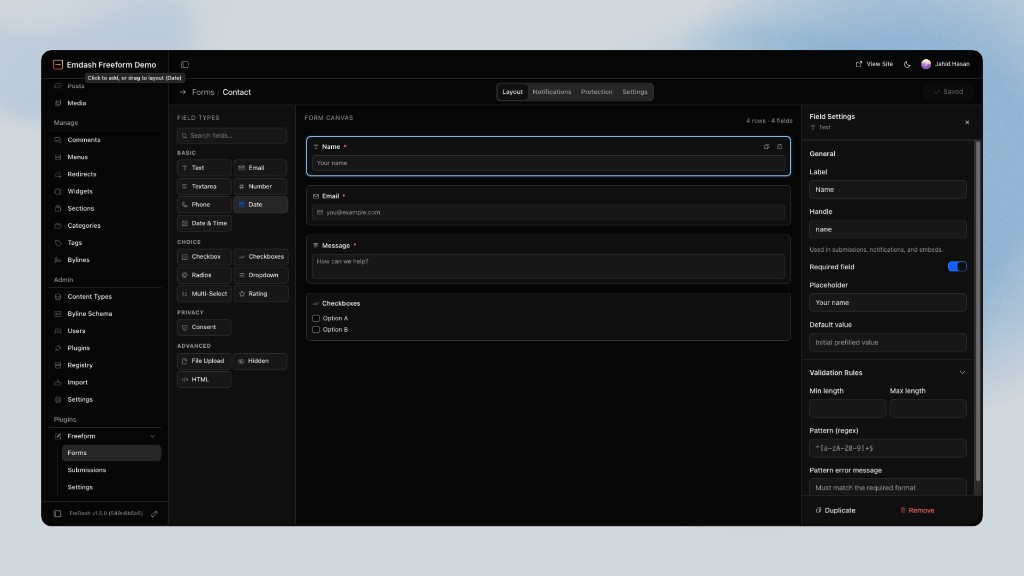
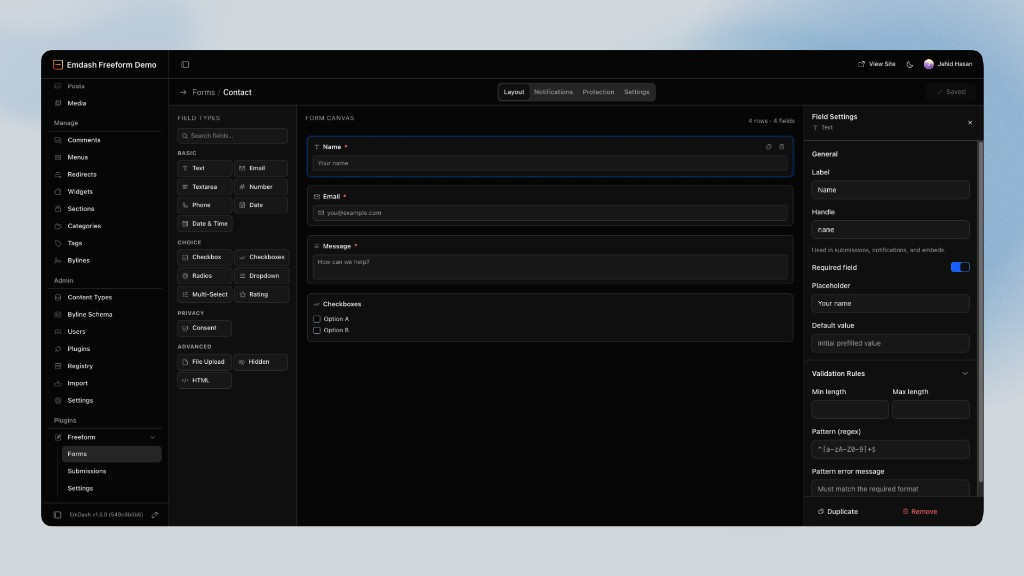
chore(release): freeform v1.4.5
Refresh the form-builder registry screenshot and align the plugin version string.

diff --git a/src/index.ts b/src/index.ts
@@ -8,7 +8,7 @@ export function freeformPlugin(): PluginDescriptor {
   return {
     id: "freeform",
     displayName: "Freeform",
-    version: "1.4.3",
+    version: "1.4.5",
     format: "native",
     entrypoint: "@local/freeform/native",
     adminEntry: "@local/freeform/admin",

diff --git a/CHANGELOG.md b/CHANGELOG.md
@@ -7,6 +7,12 @@ Versions follow [Semantic Versioning](https://semver.org/spec/v2.0.0.html).
 
 ---
 
+## [1.4.5] — 2026-11-23
+
+### Changed
+
+- Registry form-builder screenshot refreshed.
+
 ## [1.4.4] — 2026-11-23
 
 ### Security
